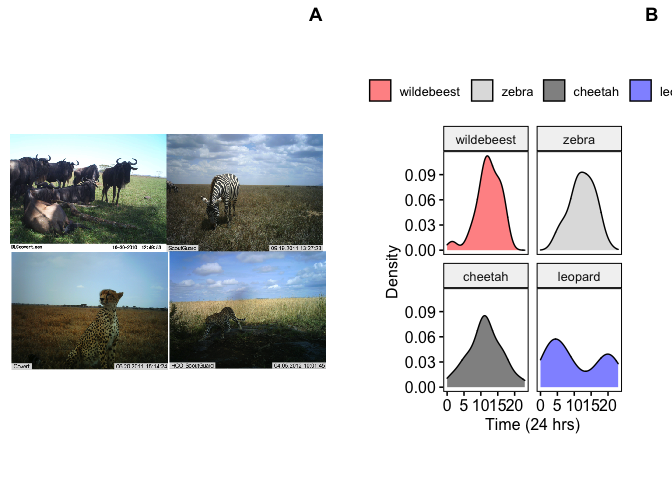
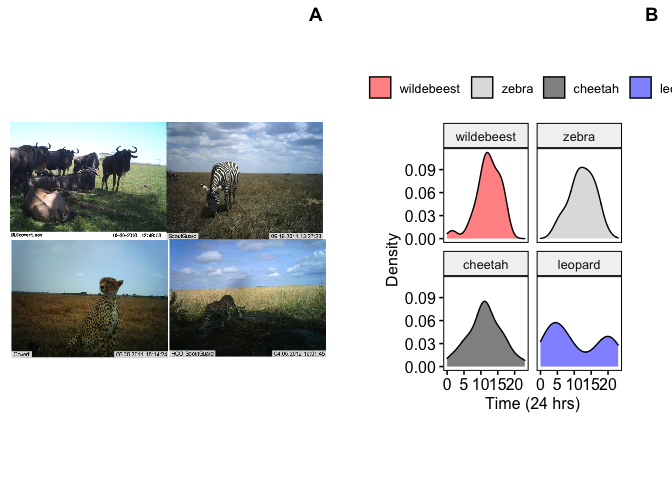
Update README

diff --git a/README.md b/README.md
@@ -3,7 +3,7 @@
 
 # Welcome to the github page for the ‘behaviouR’ package
 
-<img src="man/figures/README-unnamed-chunk-2-1.png" width="80%" style="display: block; margin: auto;" />
+<img src="man/figures/README-unnamed-chunk-2-1.png" width="100%" style="display: block; margin: auto;" />
 
 ## Getting started
 
